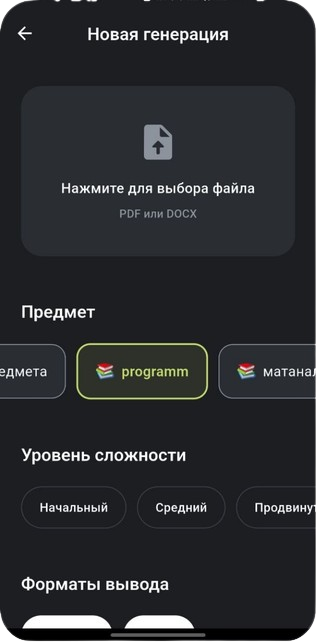
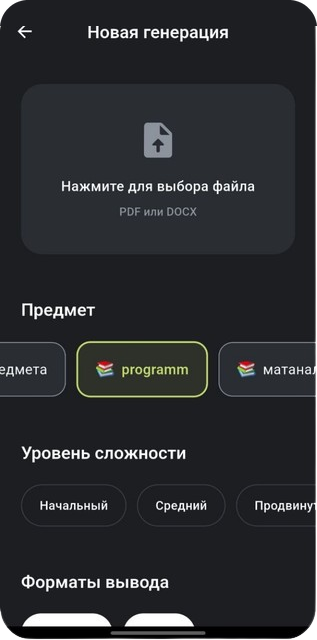
feat: polish Mentora bento card phone mockups and clean up screen edges

diff --git a/src/app/page.tsx b/src/app/page.tsx
@@ -10,7 +10,7 @@ import {
   FastApiIcon,
 } from "@/components/TechIcons";
 import { FaGithub, FaTelegram, FaEnvelope } from "react-icons/fa";
-import { ChevronRight, Terminal, Smartphone, ArrowUpRight } from "lucide-react";
+import { ChevronRight, Terminal, ArrowUpRight } from "lucide-react";
 
 export default function Home() {
   return (
@@ -251,14 +251,18 @@ export default function Home() {
           {/* Project 2: Mentora (Bento-style Showcase Card) */}
           <div className="pt-10 border-t border-[var(--border)] space-y-6">
             <div className="group relative rounded-3xl overflow-hidden min-h-[420px] border border-black/10 dark:border-white/10 bg-gradient-to-br from-neutral-50 to-white dark:from-neutral-900 dark:to-neutral-950 shadow-[inset_0_1px_0_rgba(255,255,255,0.8)] dark:shadow-[inset_0_1px_0_rgba(255,255,255,0.06)] flex flex-col md:grid md:grid-cols-[5fr_7fr]">
-              
+              {/* Accent radial glow relative to the CARD (right side, ~500px, blur-3xl, radial-gradient, ~12% opacity, no hard edges) */}
+              <div
+                className="absolute -top-16 -right-16 w-[500px] h-[500px] rounded-full opacity-[0.12] blur-3xl pointer-events-none"
+                style={{
+                  background: "radial-gradient(circle, #c8e86a 0%, transparent 70%)",
+                }}
+              />
+
               {/* Left Column (p-8 md:p-10, flex flex-col justify-between) */}
               <div className="p-8 md:p-10 flex flex-col justify-between relative z-10 space-y-8 md:space-y-0">
                 <div className="space-y-4">
                   {/* 44px rounded-xl icon tile */}
-                  <div className="w-11 h-11 rounded-xl bg-black/5 dark:bg-white/10 border border-black/5 dark:border-white/10 flex items-center justify-center text-[var(--fg)]">
-                    <Smartphone className="w-5 h-5" />
-                  </div>
 
                   <div className="space-y-2">
                     <h3 className="text-2xl font-semibold text-[var(--fg)] tracking-tight">
@@ -269,12 +273,12 @@ export default function Home() {
                     </p>
                   </div>
 
-                  {/* Tech chips (same dashed style as hero) */}
+                  {/* Tech chips (text-xs, px-2 py-0.5, rounded-md, border border-dashed border-black/20 dark:border-white/20, gap-1.5) */}
                   <div className="flex flex-wrap items-center gap-1.5 pt-1">
                     {["FastAPI", "PostgreSQL", "LLM Orchestration", "Python", "Docker"].map((tech) => (
                       <span
                         key={tech}
-                        className="px-2.5 py-1 text-xs rounded-md border border-dashed border-[var(--border-dashed)] text-[var(--muted)] bg-[var(--chip-bg)] font-normal"
+                        className="text-xs px-2 py-0.5 rounded-md border border-dashed border-black/20 dark:border-white/20 text-[var(--muted)] font-normal"
                       >
                         {tech}
                       </span>
@@ -296,68 +300,42 @@ export default function Home() {
                 </div>
               </div>
 
-              {/* Right Column: staggered composition bleeding off the bottom */}
-              <div className="relative min-h-[360px] md:min-h-[440px] overflow-hidden flex items-end">
-                {/* Blurred radial glow in accent lime (#c8e86a at 15-20% opacity) */}
-                <div className="absolute top-1/2 left-1/2 -translate-x-1/2 -translate-y-1/2 w-[360px] md:w-[420px] h-[360px] md:h-[420px] rounded-full bg-[#c8e86a]/15 dark:bg-[#c8e86a]/20 blur-3xl pointer-events-none" />
-
-                {/* Staggered composition */}
-                <div className="relative w-full h-[360px] md:h-[440px] transition-transform duration-500 ease-out group-hover:-translate-y-1.5">
-                  {/* Left phone: top-10, tilted -rotate-3 */}
-                  <div className="absolute -left-6 sm:left-1 md:-left-6 lg:left-2 top-8 sm:top-10 w-[190px] sm:w-[220px] md:w-[220px] lg:w-[240px] rounded-[28px] ring-1 ring-black/10 dark:ring-white/15 shadow-2xl shadow-black/50 -rotate-3 select-none pointer-events-none">
+              {/* Right Column: NO overflow-hidden, NO background, pl-6 so left phone never touches text area */}
+              <div className="relative min-h-[360px] md:min-h-[440px] flex items-end pl-6">
+                <div className="relative w-full h-[360px] md:h-[440px]">
+                  {/* Left phone: rotate(-5deg) at left-[8%], top offset, clean ring outline */}
+                  <div className="absolute left-[6%] sm:left-[8%] top-8 sm:top-10 w-[170px] md:w-[190px] -rotate-[5deg] transition-transform duration-500 ease-out group-hover:-translate-y-1.5 rounded-[28px] ring-1 ring-black/10 dark:ring-white/15 shadow-2xl shadow-black/30 dark:shadow-black/60 select-none pointer-events-none">
                     <Image
                       src="/mvp/mentora-ingest.png"
                       alt="Mentora Document Ingestion"
                       width={317}
-                      height={642}
-                      className="w-full h-auto object-contain rounded-[28px]"
+                      height={640}
+                      className="rounded-[28px] block w-full h-auto object-contain"
                     />
                   </div>
 
-                  {/* Right phone: top-4, tilted rotate-3 */}
-                  <div className="absolute right-[-24px] sm:right-1 md:right-[-24px] lg:right-2 top-2 sm:top-4 w-[190px] sm:w-[220px] md:w-[220px] lg:w-[240px] rounded-[28px] ring-1 ring-black/10 dark:ring-white/15 shadow-2xl shadow-black/50 rotate-3 select-none pointer-events-none">
+                  {/* Right phone: rotate(5deg), top offset, clean ring outline */}
+                  <div className="absolute right-[2%] sm:right-[4%] md:right-[6%] top-2 sm:top-4 w-[170px] md:w-[190px] rotate-[5deg] transition-transform duration-500 ease-out group-hover:-translate-y-1.5 rounded-[28px] ring-1 ring-black/10 dark:ring-white/15 shadow-2xl shadow-black/30 dark:shadow-black/60 select-none pointer-events-none">
                     <Image
                       src="/mvp/mentora-quota.png"
                       alt="Mentora Quota Management"
                       width={317}
-                      height={642}
-                      className="w-full h-auto object-contain rounded-[28px]"
+                      height={638}
+                      className="rounded-[28px] block w-full h-auto object-contain"
                     />
                   </div>
 
-                  {/* Center phone: top-24, slightly larger, z-10 */}
-                  <div className="absolute left-1/2 -translate-x-1/2 top-20 sm:top-24 w-[205px] sm:w-[235px] md:w-[235px] lg:w-[255px] z-10 rounded-[28px] ring-1 ring-black/10 dark:ring-white/15 shadow-2xl shadow-black/60 select-none pointer-events-none">
+                  {/* Center phone: top offset, scale-105, z-10, clean ring outline */}
+                  <div className="absolute left-1/2 -translate-x-1/2 top-18 sm:top-20 md:top-24 w-[170px] md:w-[190px] scale-105 z-10 transition-transform duration-500 ease-out group-hover:-translate-y-1.5 rounded-[28px] ring-1 ring-black/10 dark:ring-white/15 shadow-2xl shadow-black/40 dark:shadow-black/70 select-none pointer-events-none">
                     <Image
                       src="/mvp/mentora-quiz.png"
                       alt="Mentora Interactive Quiz"
                       width={322}
-                      height={642}
-                      className="w-full h-auto object-contain rounded-[28px]"
+                      height={658}
+                      className="rounded-[28px] block w-full h-auto object-contain"
                     />
                   </div>
                 </div>
-              </div>
-
-            </div>
-
-            {/* Below the card: Engineering Deep Dives (2 columns) */}
-            <div className="grid grid-cols-1 sm:grid-cols-2 gap-6 pt-2 text-xs sm:text-sm">
-              <div className="space-y-1.5">
-                <h4 className="font-semibold text-[var(--fg)]">
-                  Parallel LLM pipeline architecture
-                </h4>
-                <p className="font-light text-[var(--muted)] leading-relaxed">
-                  To eliminate long waiting times when processing multi-chapter textbooks, the ingestion service segments documents into semantic windows and runs parallel asynchronous LLM completions via <code className="font-mono text-[11px] px-1 py-0.5 rounded bg-[var(--border)]/50">asyncio</code>. Conspectus generation, question authoring, and flashcards are orchestrated concurrently with fallback handling.
-                </p>
-              </div>
-
-              <div className="space-y-1.5">
-                <h4 className="font-semibold text-[var(--fg)]">
-                  Quota concurrency &amp; token accounting
-                </h4>
-                <p className="font-light text-[var(--muted)] leading-relaxed">
-                  Handling high-concurrency student usage without race conditions required strict transactional integrity. By applying PostgreSQL row-level locks (<code className="font-mono text-[11px] px-1 py-0.5 rounded bg-[var(--border)]/50">SELECT ... FOR UPDATE</code>) on user balance records, token allocations and monthly generation quotas are decremented atomically, eliminating duplicate burns.
-                </p>
               </div>
             </div>
           </div>
